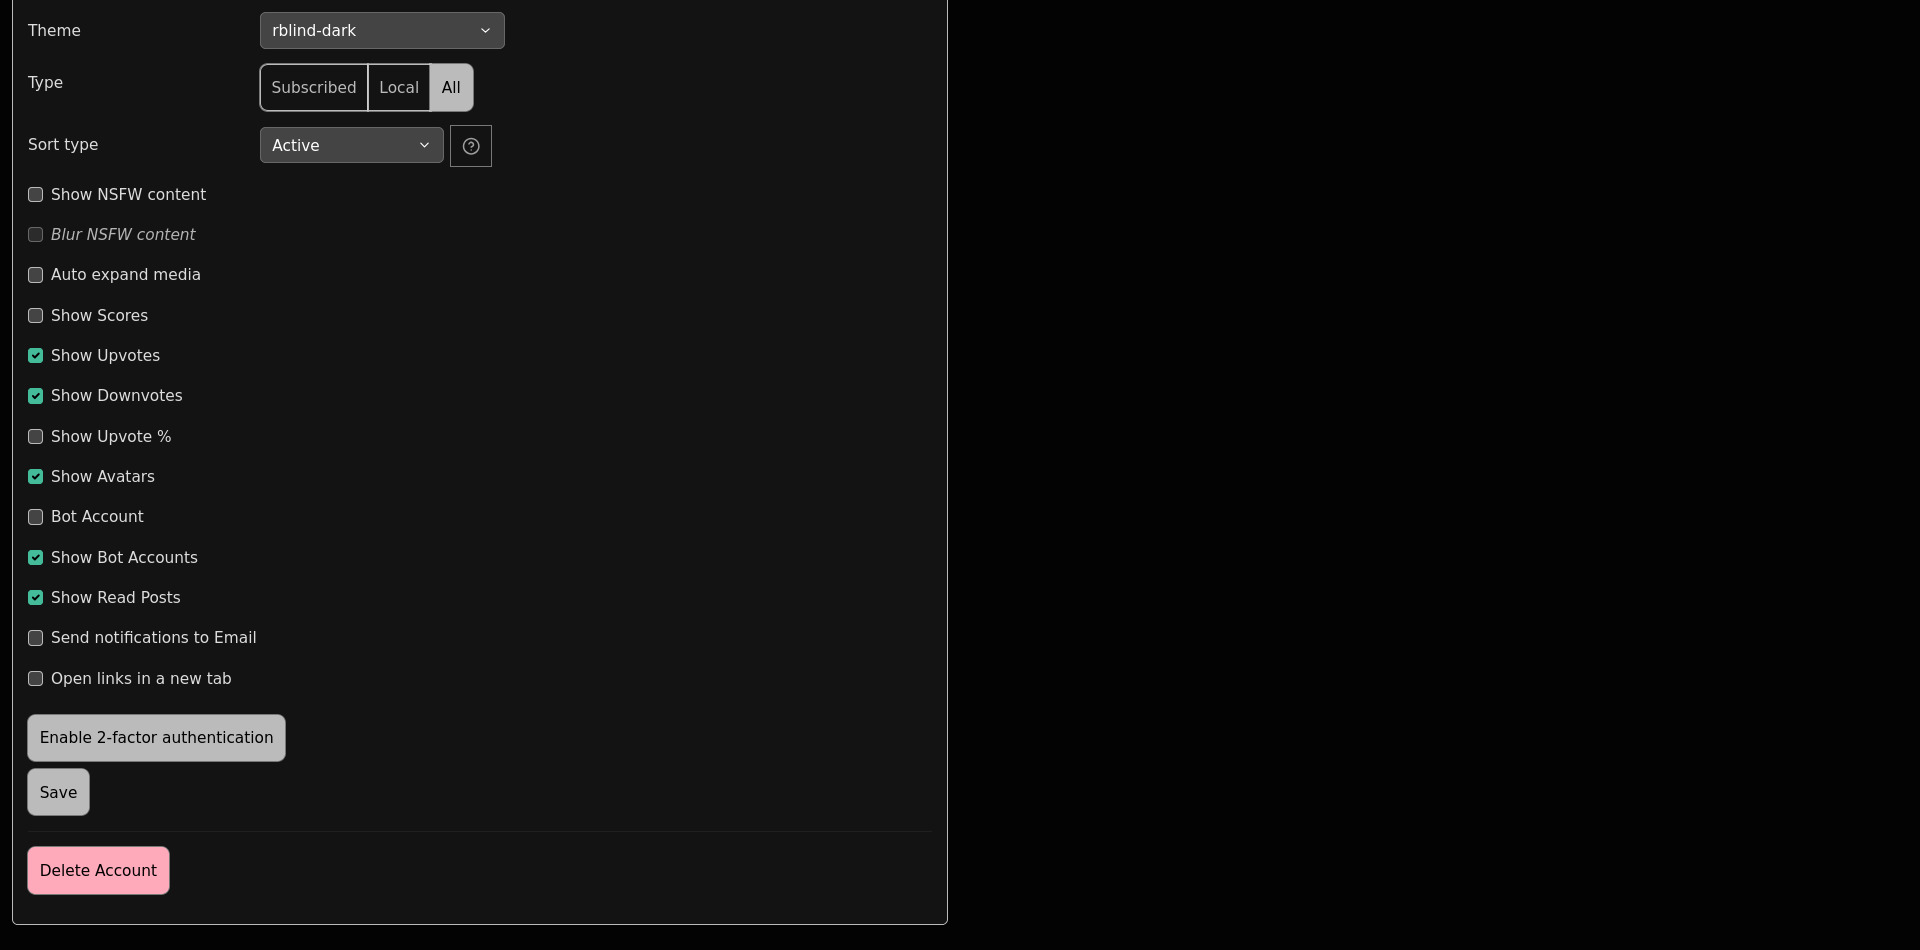
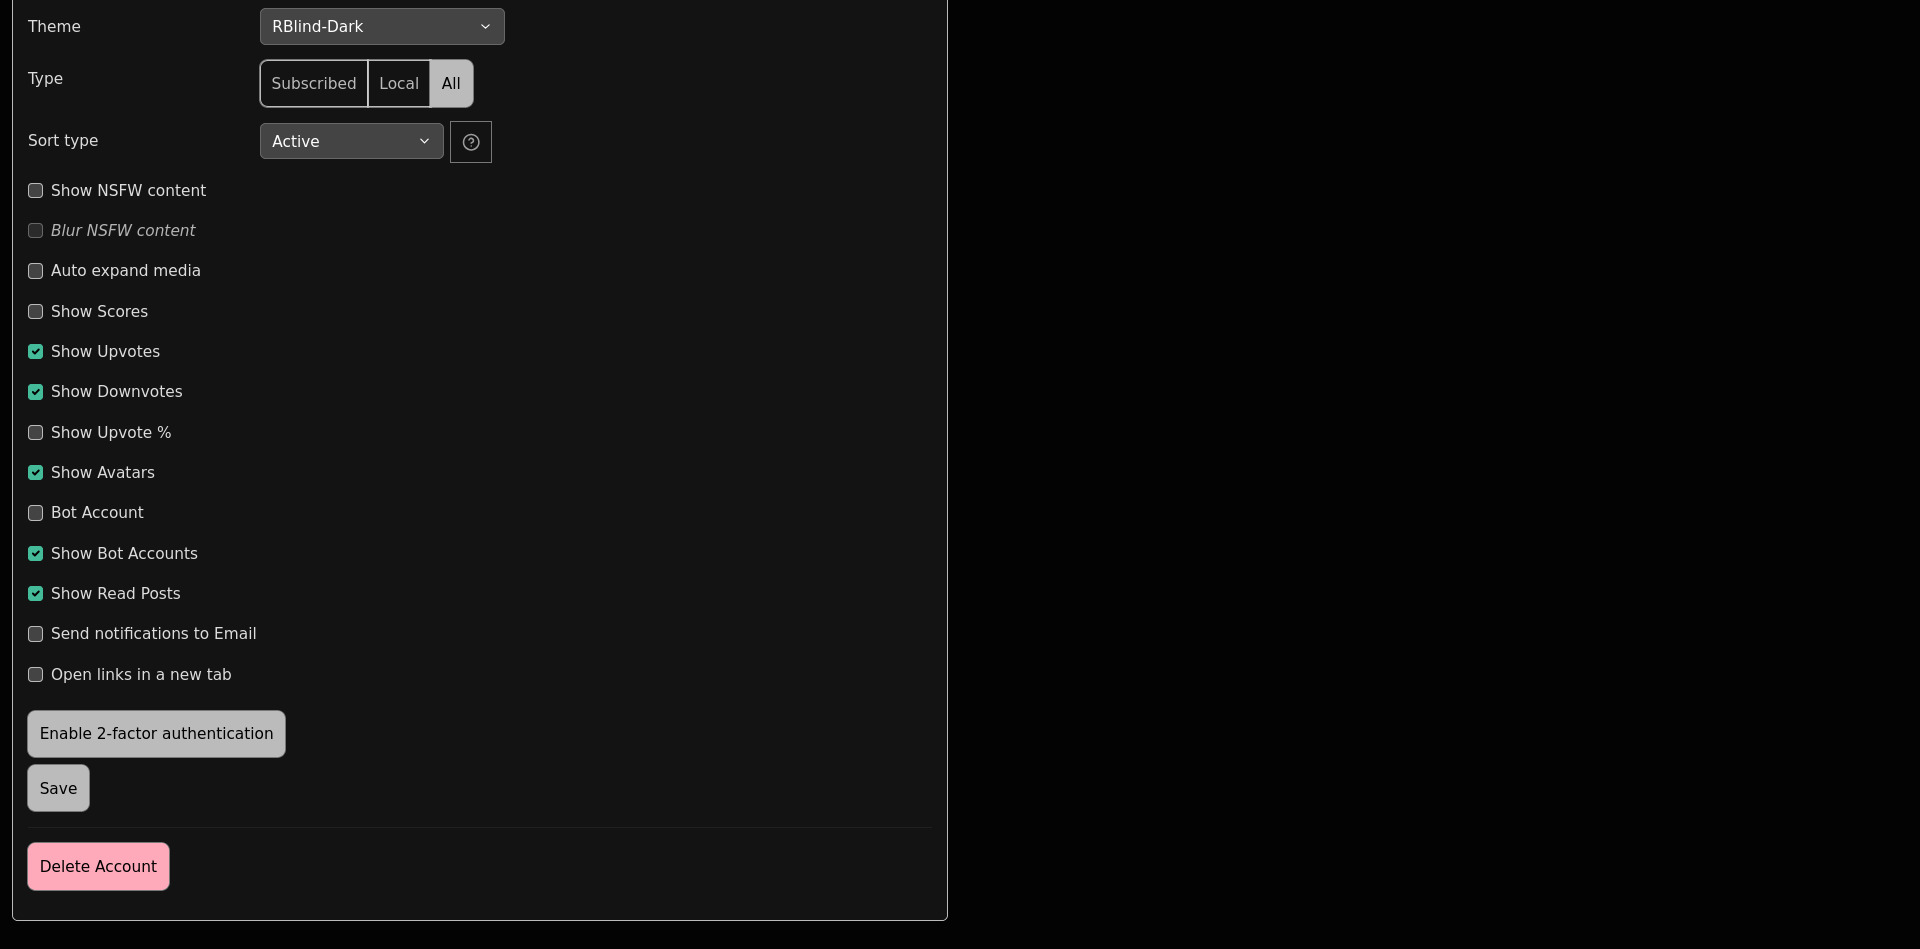
Replaced the screenshots of the settings with one with the renamed RBlind-Themes. Reordered some information in Limitations and removed the heading Hover Effects from Limitations.

diff --git a/README.md b/README.md
@@ -167,11 +167,9 @@ Issues that cannot be changed with CSS:
 
 The themes may not fully conform to the user's High Contrast modes or other custom style sheets, owing to the `!important` variables within the CSS theme to overwrite the Lemmy theme `!important` variables. This has been observed with hover effects and other colour styles.
 
-Please report any accessibility issues with the underlying Lemmy codebase to [Lemmy UI Github Issues](https://github.com/LemmyNet/lemmy-ui/issues) tracker. To quick search `is:issue is:open accessibility OR accessible` see [Accessibility Issues Open on Lemmy UI's GitHub](https://github.com/LemmyNet/lemmy-ui/issues?q=is%3Aissue+is%3Aopen+accessibility+OR+accessible).
-
-### Hover Effects
-
 Because of the way `lemmy-ui` creates hover effects using `opacity` effects, the result is that hover effects are less obvious than they were previously due to the base contrast and opaque level being increased so elements like visited links and disabled buttons have improved contrast (sometimes people want to be able to read what a disabled button says in case they want to figure out how to activate it). However hover effects are decorative most of the time, so the colours weren't changed.
+
+Please report any accessibility issues with the underlying Lemmy codebase to [Lemmy UI Github Issues](https://github.com/LemmyNet/lemmy-ui/issues) tracker. To quick search `is:issue is:open accessibility OR accessible` see [Accessibility Issues Open on Lemmy UI's GitHub](https://github.com/LemmyNet/lemmy-ui/issues?q=is%3Aissue+is%3Aopen+accessibility+OR+accessible).
 
 ## License
 
